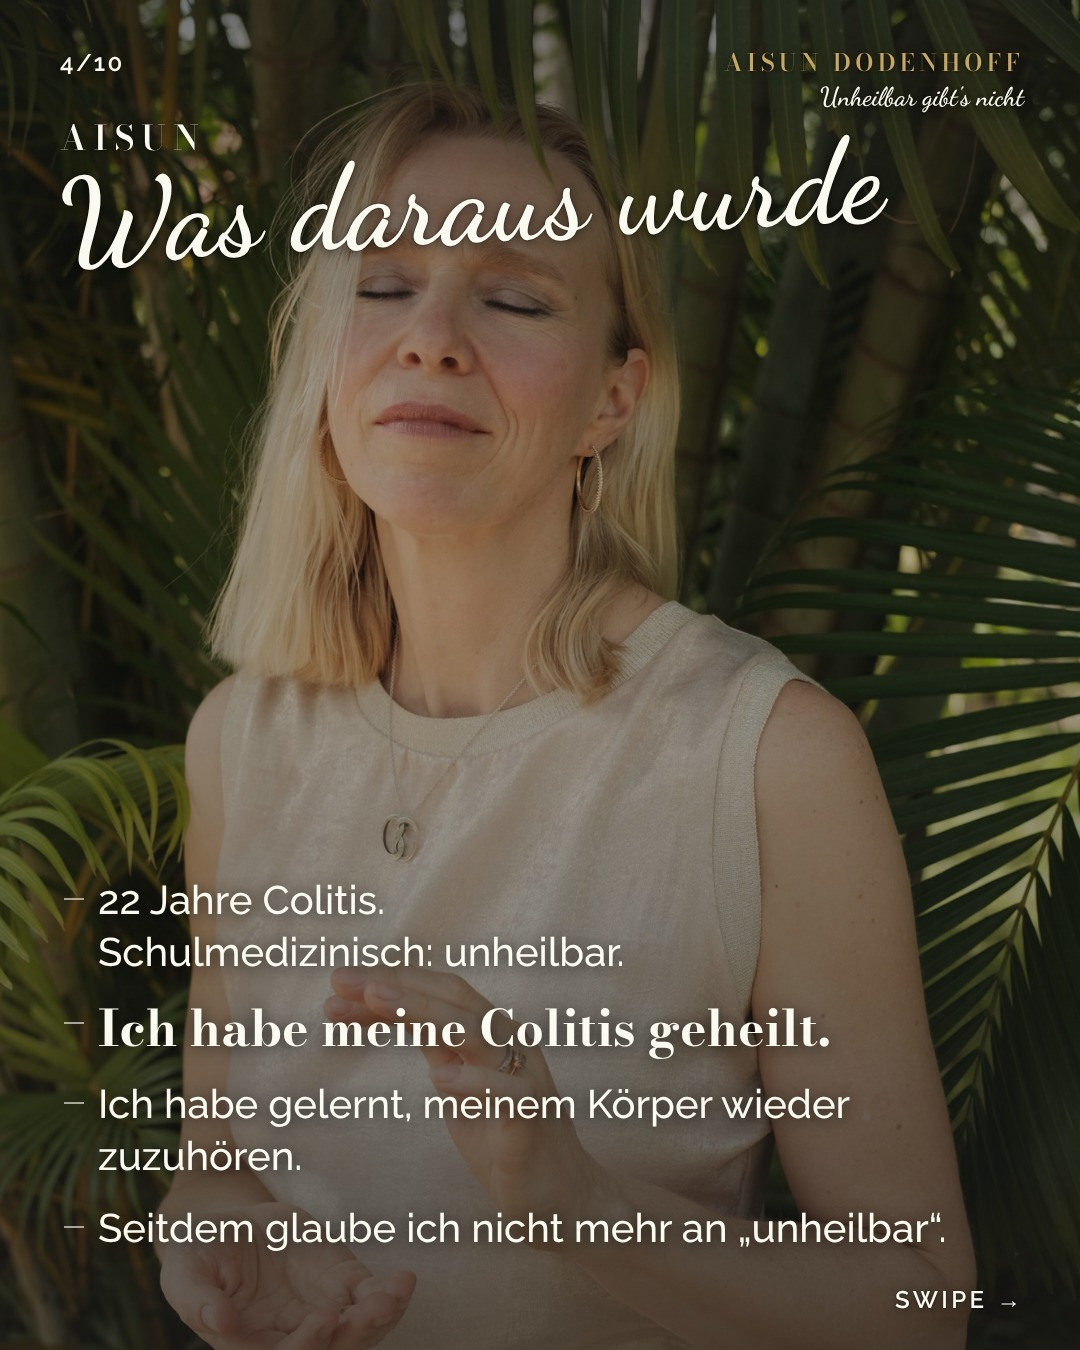
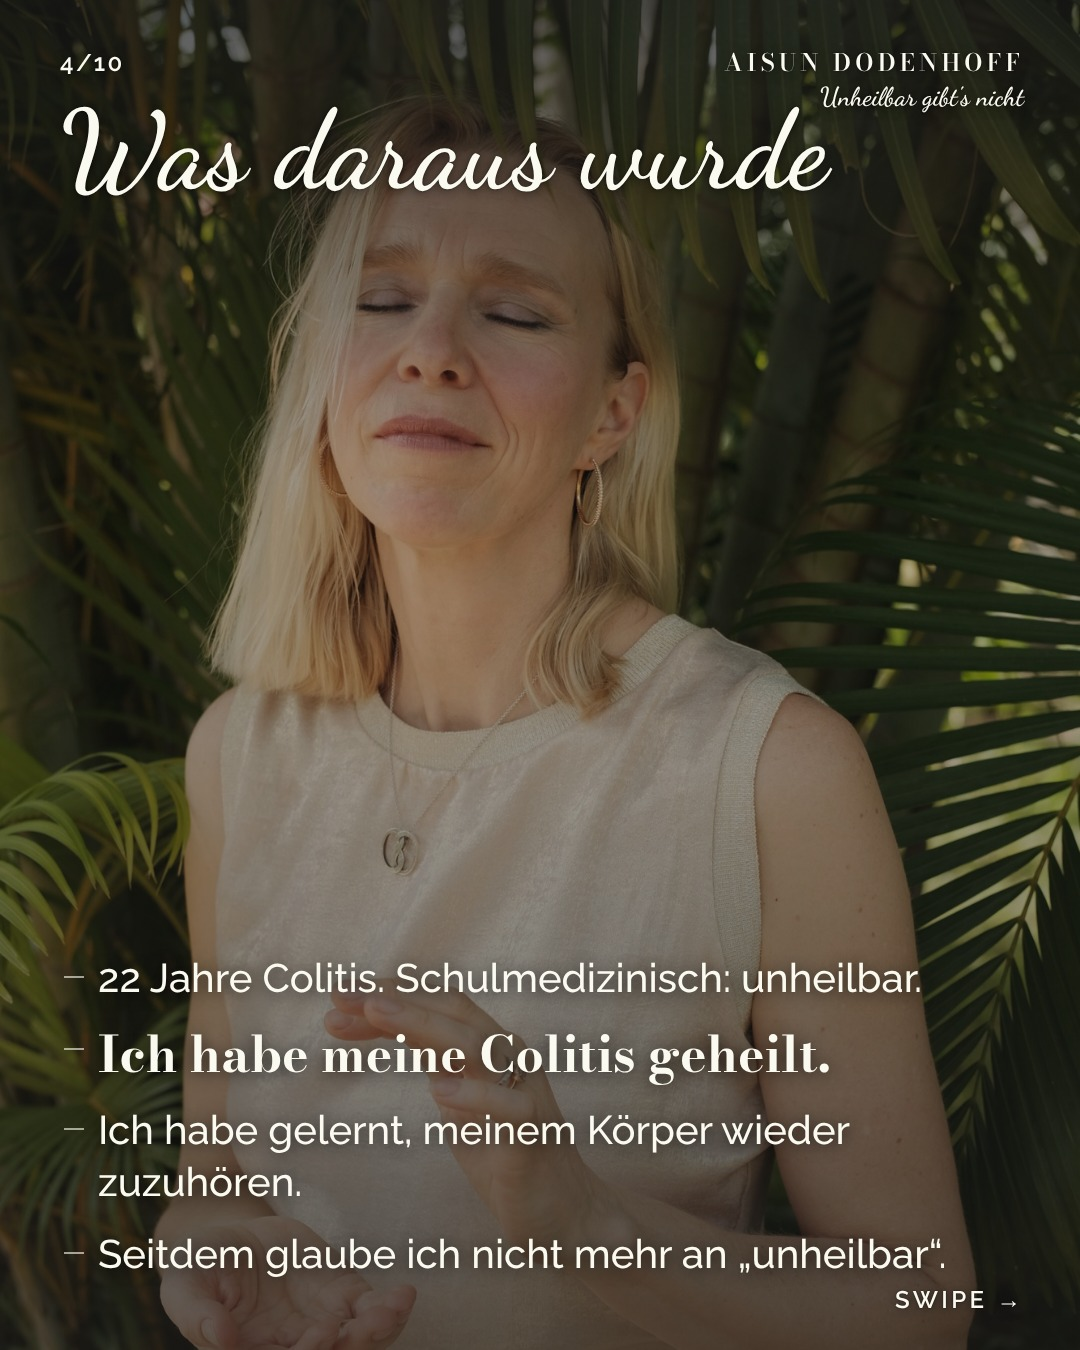
Über-mich v3 (ruhig, Titel gerade), Gelernt: Greta-Abnahme vor Vorlage
Claude-Session: https://claude.ai/code/session_01Lon3PRjdcFxXJtNGURo4jz

diff --git a/content/entwuerfe/ueber-mich/gen3.py b/content/entwuerfe/ueber-mich/gen3.py
@@ -1,0 +1,75 @@
+F="/home/user/ceo-table/content/entwuerfe/ueber-mich/fotos/"
+def L(t,side,y,size=44,rot=0,x=None): return dict(t=t,s=side,y=y,size=size,rot=rot,x=x)
+S=[
+ dict(img="f08.jpg",pos="50% 0%",dark=.28,title="Das bin ich",trot=0,tbottom=True,hook="Und nein, ich bin keine typische Heilerin.",labels=[
+   L("Jungs-Mama<br>(12 &amp; 6)","l",190,40,0),L("Hundemama","l",340,40,0),L("Jahrgang 1980","l",450,40,0),L("Glücklich liiert","l",560,40,-2),L("Hilfsbereit &amp;<br>unkompliziert","l",670,40,0),
+   L("Diplom-Psychologin,<br>ehemalige Psycho-<br>therapeutin","r",170,42,0),L("Mentorin für<br>energetische<br>Selbstheilung","r",430,40,0),L("Generatorin 4/6","r",640,40,2),L("Berlin · Heidenheim","r",750,40,0)]),
+ dict(img="f10.jpg",pos="50% 60%",dark=.30,title="Dinge, die ich liebe",trot=0,labels=[
+   L("Laufen,<br>jeden Morgen","l",330,44,0),L("Meine Familie","l",520,48,-2),L("Sauna im<br>eigenen Garten","l",680,44,0),
+   L("Frauen begleiten,<br>die ihre eigene<br>Heilerin werden","r",300,44,0),L("Rohkakao","r",560,44,0),L("Reisen (hier: Ägypten)","r",700,40,2),L("Abwechslung","r",880,44,0)]),
+ dict(img="f09.jpg",pos="50% 30%",dark=.45,title="Meine tiefsten Täler",trot=0,tsize=104,labels=[
+   L("Meine Schwester<br>starb 2023<br>an Krebs","l",380,40,0),L("1 Fehlgeburt<br>2023","l",640,40,0),L("Sexueller<br>Missbrauch","l",860,40,0),
+   L("22 Jahre<br>Colitis Ulcerosa","r",380,40,0),L("2x geschieden","r",640,40,0),L("Meine Tochter<br>starb 2011<br>bei der Geburt","r",840,40,0)]),
+ dict(img="f14.jpg",pos="50% 15%",dark=.38,title="Was daraus wurde",trot=0,tsize=110,text=["22 Jahre Colitis. Schulmedizinisch: unheilbar.","<big>Ich habe meine Colitis geheilt.</big>","Ich habe gelernt, meinem Körper wieder zuzuhören.","Seitdem glaube ich nicht mehr an „unheilbar“."]),
+ dict(img="f01.jpg",pos="60% 35%",dark=.40,title="Mein Weg",trot=0,text=["Diplom-Psychologin · 2011 Approbation · ehemalige Psychotherapeutin","Knapp 20 Jahre Unternehmensberaterin (u. a. Deutsche Bahn)","2016 innerwise · 2018 Guide · 2024 Mentorin","<big>Über 1.000 Menschen begleitet</big>","Kurs im Heilen: über 60 Frauen, 13 sind heute selbst Coach"]),
+ dict(img="f13.jpg",pos="50% 45%",dark=.30,title="Random Facts",trot=0,labels=[
+   L("19x umgezogen:<br><small>Aachen, Würzburg,<br>Frankfurt, St. Petersburg,<br>Berlin</small>","l",330,42,0),L("Ich liebe Gedichte:<br><small>Hilde Domin, Hesse, Rilke</small>","l",620,40,0),L("Familienbett<br>zu viert","l",820,40,-2),L("Ich habe ein<br>Buch geschrieben","l",1020,40,0),
+   L("Seit 9.9.2024:<br>0,0 Alkohol","r",270,48,0),L("Super unordentlich","r",420,40,2),L("Mega spontan,<br>emotional &amp;<br>unkonventionell","r",960,40,0),L("3 Geschwister","r",1140,40,0)]),
+ dict(img="f11.jpg",pos="72% 25%",dark=.42,warm=True,title="Was du hier findest",trot=0,tsize=104,text=["Energetische Selbstheilung, erklärt von einer Psychologin","<big>Effektive Alternativen zur klassischen Schulmedizin</big><br>so wie ich sie für mich und meine Familie nutze","Klartext statt Räucherstäbchen","Wie du deinem Körper wieder zuhörst","Für Coaches, Heilpraktikerinnen und Ärztinnen: wie du tiefer ansetzt"]),
+ dict(img="f12.jpg",pos="55% 50%",dark=.40,warm=True,money=True),
+ dict(img="f07.jpg",pos="50% 35%",dark=.38,title="Wo du anfangen kannst",trot=0,tsize=88,steps=[("Neugierig?","Der Heilungskompass, kostenlos","KOMPASS"),("Selbst lernen?","Kurs im Heilen als Selbstlernkurs","KURSIMHEILEN"),("Andere begleiten?","Die Coach-Ausbildung, ca. 1 Jahr","COACH")]),
+ dict(img="f04.jpg",pos="50% 35%",dark=.38,title="Und wer bist du?",trot=0,cta=True),
+]
+css="""*{margin:0;padding:0;box-sizing:border-box}html,body{width:1080px;height:1350px;overflow:hidden;background:#1A1A1A}
+.bg{position:absolute;inset:0;width:100%;height:100%;object-fit:cover}
+.ov{position:absolute;inset:0}
+.grad{position:absolute;left:0;right:0;bottom:0;height:55%;background:linear-gradient(180deg,rgba(26,26,26,0),rgba(26,26,26,.5))}
+.gradt{position:absolute;left:0;right:0;top:0;height:34%;background:linear-gradient(0deg,rgba(26,26,26,0),rgba(26,26,26,.55))}
+.sh{text-shadow:0 2px 12px rgba(0,0,0,.55),0 0 2px rgba(0,0,0,.6)}
+.brand{position:absolute;top:44px;right:56px;text-align:right;font-family:'Bodoni Moda',serif;color:#FBFAF0;letter-spacing:.18em;font-size:24px;font-weight:600}
+.brand i{display:block;font-family:'Dancing Script',cursive;letter-spacing:0;font-size:26px;color:#FBFAF0;font-style:normal}
+.n{position:absolute;top:48px;left:60px;color:#FBFAF0;font:600 24px Raleway;letter-spacing:.1em}
+.ti{position:absolute;top:96px;left:60px;right:60px;color:#FBFAF0}
+.ti small{display:block;font:600 34px 'Bodoni Moda',serif;letter-spacing:.22em}
+.ti h1{font:600 120px/1 'Dancing Script',cursive;transform-origin:left center}
+.hook{font:700 50px/1.2 'Bodoni Moda',serif;margin-top:12px;font-variation-settings:'opsz' 11}
+.lab{position:absolute;color:#FBFAF0;font-family:'Bodoni Moda',serif;font-weight:700;line-height:1.15;font-variation-settings:'opsz' 11}
+.lab small{font-size:.85em;font-weight:700}
+.lab{max-width:430px}.lab.l{left:44px;transform-origin:left center}.lab.r{right:56px;text-align:right;transform-origin:right center}
+.txt{position:absolute;left:64px;right:64px;bottom:70px;color:#FBFAF0;display:grid;gap:20px;font:500 40px/1.3 Raleway;text-shadow:0 2px 16px rgba(0,0,0,.7)}
+.txt p{padding-left:34px;position:relative}.txt p:before{content:"";position:absolute;left:0;top:24px;width:20px;height:2px;background:rgba(251,250,240,.6)}
+.txt big{font:700 50px/1.2 'Bodoni Moda',serif;font-variation-settings:'opsz' 11}
+.money{position:absolute;left:70px;right:70px;top:150px;text-align:center;color:#FBFAF0;font:700 78px/1.15 'Bodoni Moda',serif;font-variation-settings:'opsz' 11}
+.money .a{display:block}.money .b{display:block;color:#C6A764;font-style:italic;font-size:88px;margin-top:16px}
+.steps{position:absolute;left:64px;right:64px;bottom:96px;color:#FBFAF0;display:grid;gap:30px;text-shadow:0 2px 16px rgba(0,0,0,.7)}
+.step{display:grid;grid-template-columns:1fr auto;gap:20px;align-items:center}
+.step h3{font:700 50px 'Bodoni Moda',serif;font-variation-settings:'opsz' 11}.step p{font:500 34px Raleway}
+.kw{width:300px;text-align:center;background:linear-gradient(115deg,#a88a4c,#C6A764 30%,#efe2bf 50%,#C6A764 70%,#9d7f43);color:#1A1A1A;font:700 28px Raleway;letter-spacing:.08em;padding:16px 24px;border-radius:999px;white-space:nowrap;text-shadow:none}
+.cta{position:absolute;left:70px;right:70px;bottom:110px;color:#FBFAF0;text-align:center;font:500 42px/1.4 Raleway;text-shadow:0 2px 16px rgba(0,0,0,.7)}
+.cta b{font-weight:700;letter-spacing:.06em;border-bottom:3px solid #C6A764;padding-bottom:2px}
+.swipe{position:absolute;bottom:36px;right:56px;color:#FBFAF0;font:600 24px Raleway;letter-spacing:.14em}
+svg.ar{position:absolute;inset:0;width:1080px;height:1350px;pointer-events:none}"""
+head='<!doctype html><html lang="de"><head><meta charset="utf-8"><link href="https://fonts.googleapis.com/css2?family=Bodoni+Moda:ital,opsz,wght@0,6..96,400..800;1,6..96,400..800&family=Raleway:wght@500;600;700&family=Dancing+Script:wght@500..700&display=swap" rel="stylesheet"><style>'+css+'</style></head><body>'
+import math
+def arrow(x1,y1,x2,y2):
+    mx,my=(x1+x2)/2,(y1+y2)/2; dx,dy=x2-x1,y2-y1; cx,cy=mx-dy*.25,my+dx*.25
+    ang=math.atan2(y2-cy,x2-cx); a1,a2=ang+2.6,ang-2.6
+    p=f'M{x1} {y1} Q{cx:.0f} {cy:.0f} {x2} {y2}'
+    h=f'M{x2+18*math.cos(a1):.0f} {y2+18*math.sin(a1):.0f} L{x2} {y2} L{x2+18*math.cos(a2):.0f} {y2+18*math.sin(a2):.0f}'
+    st='fill="none" stroke="#FBFAF0" stroke-width="3.5" stroke-linecap="round" stroke-linejoin="round" style="filter:drop-shadow(0 1px 3px rgba(0,0,0,.6))"'
+    return f'<path d="{p}" {st}/><path d="{h}" {st}/>'
+for i,s in enumerate(S,1):
+    o=f'<img class="bg" src="{F}{s["img"]}" style="object-position:{s["pos"]};{s.get("imgst","")}"><div class="ov" style="background:rgba({'34,24,16' if s.get('warm') else '26,26,26'},{s["dark"]})"></div><div class="gradt"></div><div class="grad"></div>'
+    o+=f'<div class="n sh">{i}/10</div><div class="brand sh">AISUN DODENHOFF<i>Unheilbar gibt\'s nicht</i></div>'
+    if "title" in s:
+        st='top:auto;bottom:90px' if s.get("tbottom") else ''
+        o+=f'<div class="ti sh" style="{st}"><h1 style="transform:rotate({s["trot"]}deg);font-size:{s.get("tsize",140)}px">{s["title"]}</h1>'+(f'<p class="hook">{s["hook"]}</p>' if s.get("hook") else '')+'</div>'
+    for l in s.get("labels",[]):
+        o+=f'<div class="lab sh {l["s"]}" style="top:{l["y"]}px;font-size:{l["size"]}px;transform:rotate({l["rot"]}deg)">{l["t"]}</div>'
+    if s.get("arrows"): o+='<svg class="ar" viewBox="0 0 1080 1350">'+"".join(arrow(*a) for a in s["arrows"])+'</svg>'
+    if "text" in s: o+='<div class="txt">'+"".join(f"<p>{x}</p>" for x in s["text"])+'</div>'
+    if s.get("money"): o+='<div class="money sh"><span class="a">Der wichtigste Experte für deinen Körper</span><span class="b">bist du selbst.</span></div>'
+    if "steps" in s: o+='<div class="steps">'+"".join(f'<div class="step"><div><h3>{a}</h3><p>{b}</p></div><span class="kw">{c}</span></div>' for a,b,c in s["steps"])+'</div>'
+    if s.get("cta"): o+='<div class="cta">Schreib mir in die Kommentare,<br>wo du gerade stehst:<br><b>KOMPASS</b> · <b>KURSIMHEILEN</b> · <b>COACH</b><br><br>Ich schick dir per DM, was zu dir passt.</div>'
+    if i<10: o+='<div class="swipe sh">SWIPE →</div>'
+    open(f"s{i:02d}.html","w").write(head+o+"</body></html>")

diff --git a/wissen/ueber-aisun.md b/wissen/ueber-aisun.md
@@ -5,7 +5,7 @@ Quellen: Cognitive & Authority Blueprint (03 BRANDING), Gespräche mit Claude. S
 ## Kurzprofil
 - **Aisun Dodenhoff**, Berlin. Online-Business unter eigenem Namen (aisundodenhoff.com), Hauptkanal Instagram @aisun.dodenhoff.
 - Diplom-Psychologin, **ehemalige Psychotherapeutin** (Verhaltenstherapie, Approbation seit 2011, erteilt in Hessen). **Die Approbation ist aktiv** (Aisun, 18.10.2026). Sie praktiziert nicht mehr und arbeitet nicht mehr als Psychotherapeutin im Gesundheitssystem. Das soll sprachlich überall deutlich sein, damit es keinen Ärger mit der Kammer gibt (Formulierungen siehe `wissen/regeln.md`).
-- Kurs im Heilen: seit 2 Jahren, erst live (online), jetzt auch als Selbstlernkurs; über 60 Teilnehmerinnen (Aisun 24.10.)
+- Kurs im Heilen: seit 2 Jahren, erst live (online), jetzt auch als Selbstlernkurs; über 60 Teilnehmerinnen, 13 davon sind heute selbst Coach (Aisun 24./25.10.)
 - Seit 2016 innerwise (Uwe Albrecht), seit 2018 Guide, seit 2024 **Mentorin im innerwise-System**.
 - Knapp 20 Jahre Unternehmensberaterin (u. a. Deutsche Bahn: Auswahl und Entwicklung von Führungskräften, Assessment-Center, Interviews im Top-Management).
 - Online-Business seit 2024 (erster 8-Wochen-Online-Kurs 2024), in wenigen Monaten auf sechsstelligen Umsatz gewachsen.

diff --git a/lernen/gelernt.md b/lernen/gelernt.md
@@ -44,3 +44,4 @@ Gilt für alle Agentinnen. Sebastian pflegt diese Datei, eine Zeile pro Erkenntn
 - Jede Änderung sofort überall nachziehen: Datei, Cockpit, Nina-Paket, Slack-Thread. Nina sieht den Chat nicht; nie mit alten Ständen arbeiten (Aisun, 23.10.2026).
 - Karussells nie Slide für Slide flicken, wenn der Bogen nicht trägt: neu aufbauen und unabhängig prüfen lassen, bevor Aisun es sieht (23.10.2026).
 - Kein Upsell/Order Bump im Checkout (weder Hausarzt noch KiH); Zusatzangebote laufen per Mail. Aisun nicht mehr daran erinnern (23.10.2026).
+- Visuelle Entwürfe nie ohne Abnahme der fertigen Bilder durch Greta vorlegen. Aisun tritt als seriöse Expertin auf: Überschriften gerade, ruhig; Schräges nur sparsam bei einzelnen Punkten (25.10.2026).

diff --git a/protokolle/2026-10-25.md b/protokolle/2026-10-25.md
@@ -3,3 +3,4 @@
 - Über-mich-Karussell als Entwurf gebaut (10 Slides, Ägypten-Fotos), Vorschau-Artifact.
 - Über-mich: Hundemama rein, Eisbaden raus, Keywords einheitlich groß (KOMPASS, KURSIMHEILEN, COACH). ManyChat erkennt Wörter überall (Aisun).
 - Über-mich v2 nach Gretas Check (keine Kästen, Gold gezielt, schräg, Pfeile nur Slide 1), Hundemama rein, Eisbaden raus, Keywords groß.
+- Über-mich v3: Titel gerade, ruhig/seriös, nur einzelne Labels leicht schräg, 13 Coaches. Greta-Abnahme läuft. Prozess: Greta nimmt fertige Bilder ab, bevor Aisun sie sieht.
